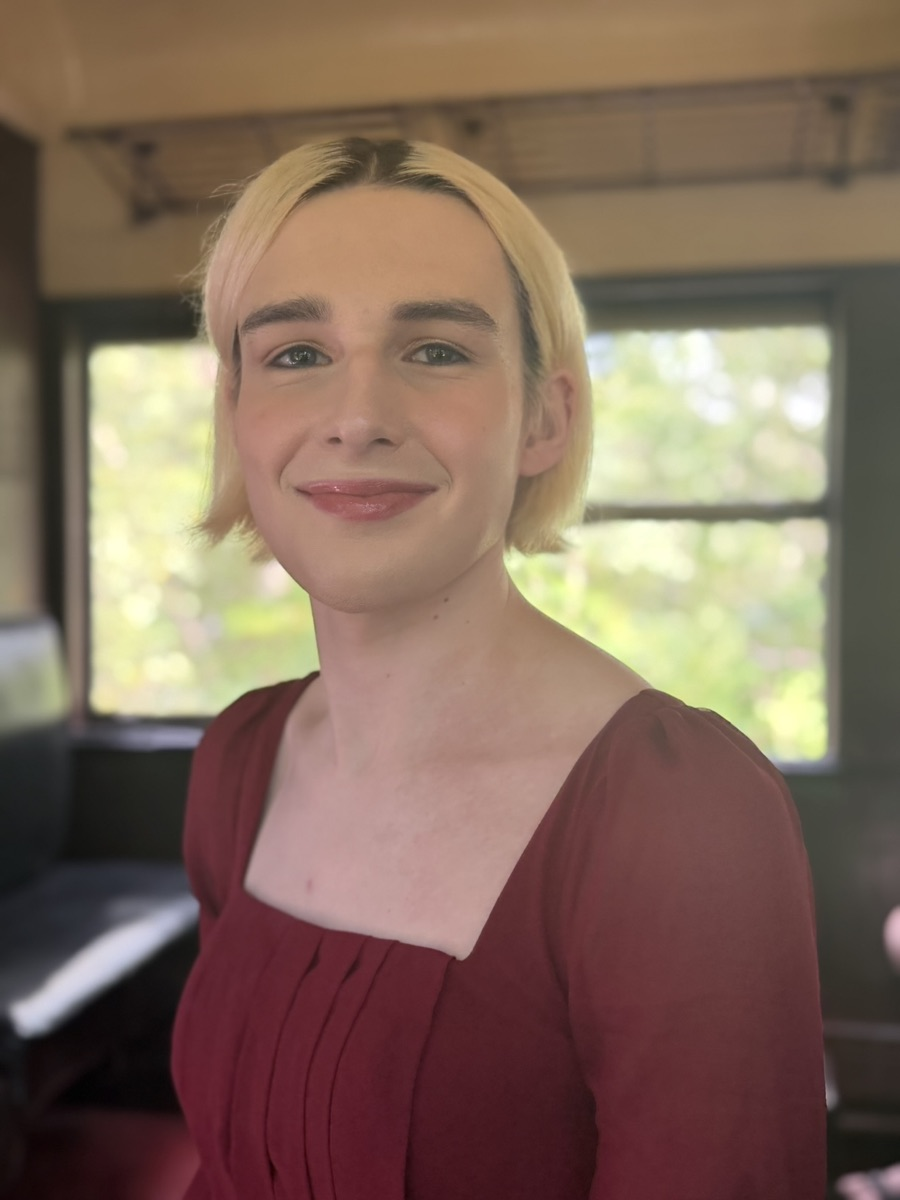
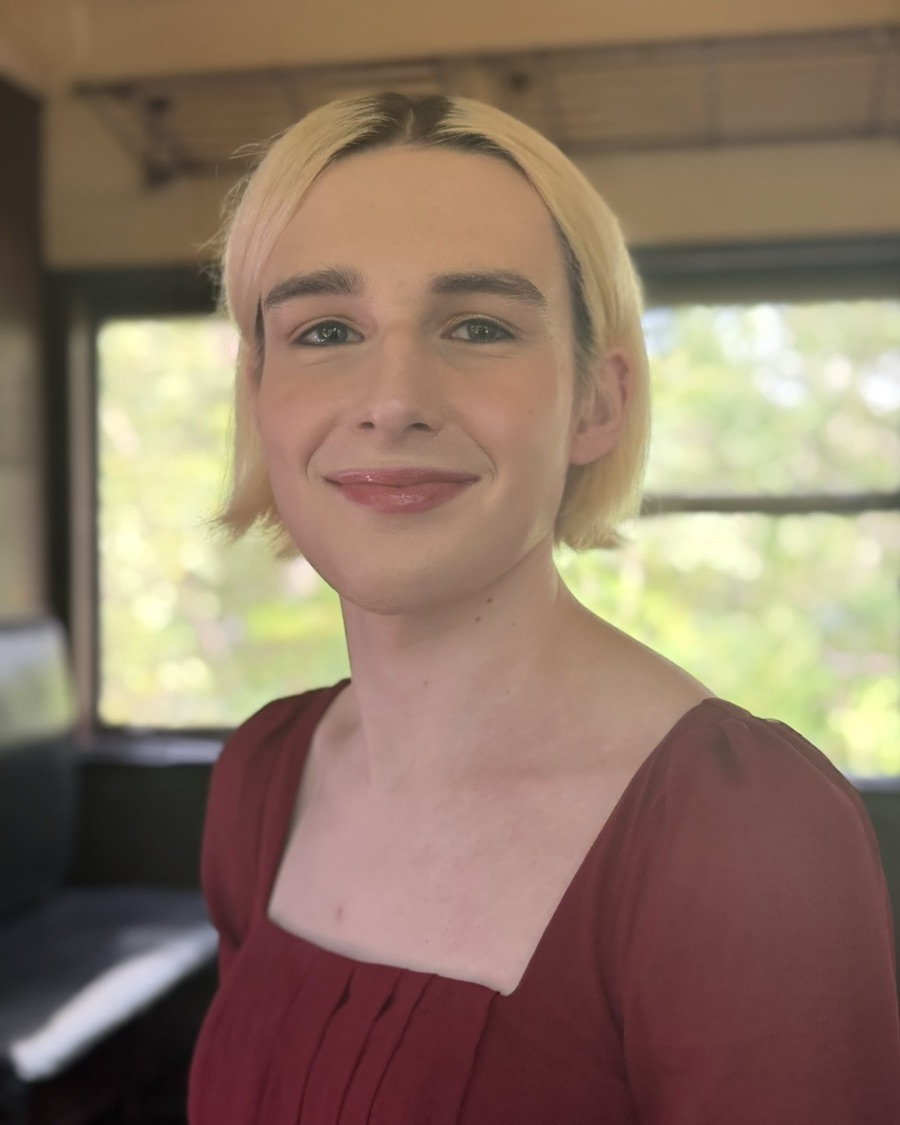
Portrait: centered ring frame, recrop photo to 4:5 and trim right edge

diff --git a/index.html b/index.html
@@ -137,19 +137,15 @@ h1 .cred { display: block; font-family: var(--body); font-style: italic; font-we
 .thesis em { font-style: normal; color: var(--jade); font-weight: 600; }
 .actions { display: flex; flex-wrap: wrap; gap: 12px; }
 
-.portrait { margin: 0; justify-self: center; width: 100%; max-width: 360px; padding-right: 18px; }
+.portrait { margin: 0; justify-self: center; width: 100%; max-width: 340px; padding: 10px; }
 .frame { position: relative; }
-.frame::before {
-  content: ""; position: absolute; inset: 18px -18px -18px 18px;
-  border-radius: 50% 50% 20px 20px / 40% 40% 20px 20px;
-  background: var(--jade-soft); border: 1.5px solid var(--jade);
-}
 .portrait img {
-  position: relative; width: 100%; height: auto; aspect-ratio: 4 / 5; object-fit: cover; object-position: 50% 28%;
+  width: 100%; height: auto; aspect-ratio: 4 / 5; object-fit: cover; object-position: 50% 30%;
   border-radius: 50% 50% 20px 20px / 40% 40% 20px 20px;
+  box-shadow: 0 0 0 6px var(--paper), 0 0 0 7.5px var(--jade);
 }
 .portrait figcaption {
-  position: relative; margin-top: 34px; font-family: var(--mono); font-size: 0.75rem; color: var(--muted); text-align: center; letter-spacing: 0.04em;
+  margin-top: 22px; font-family: var(--mono); font-size: 0.75rem; color: var(--muted); text-align: center; letter-spacing: 0.04em;
 }
 
 @media (prefers-reduced-motion: no-preference) {
@@ -293,7 +289,7 @@ h2 { font-size: var(--s2); font-weight: 600; letter-spacing: -0.015em; line-heig
       </div>
     </div>
     <figure class="portrait">
-      <div class="frame"><img src="jade.jpg" width="900" height="1200" alt="Portrait of Jade May smiling, wearing a burgundy top, in front of a sunlit window."></div>
+      <div class="frame"><img src="jade.jpg" width="900" height="1125" alt="Portrait of Jade May smiling, wearing a burgundy top, in front of a sunlit window."></div>
       <figcaption>Lawrence, KS · Chicago, IL</figcaption>
     </figure>
   </div>
